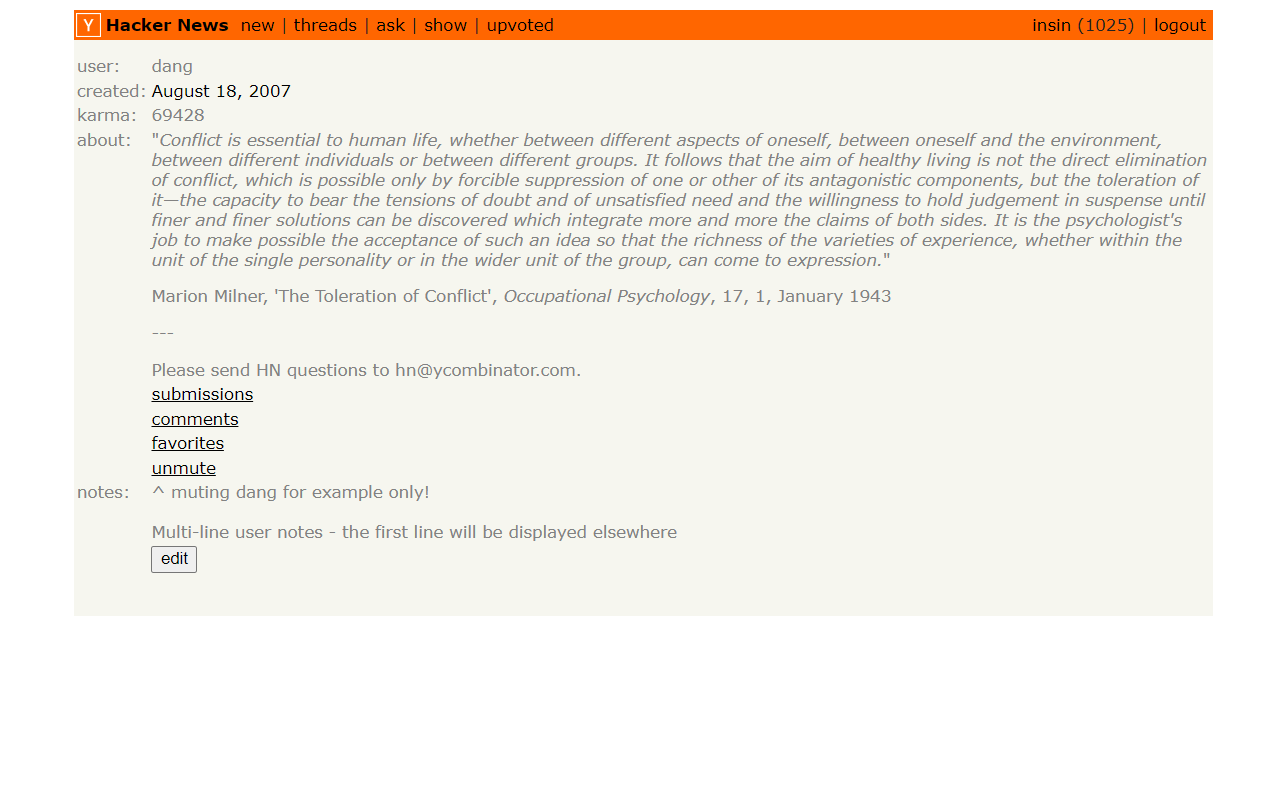
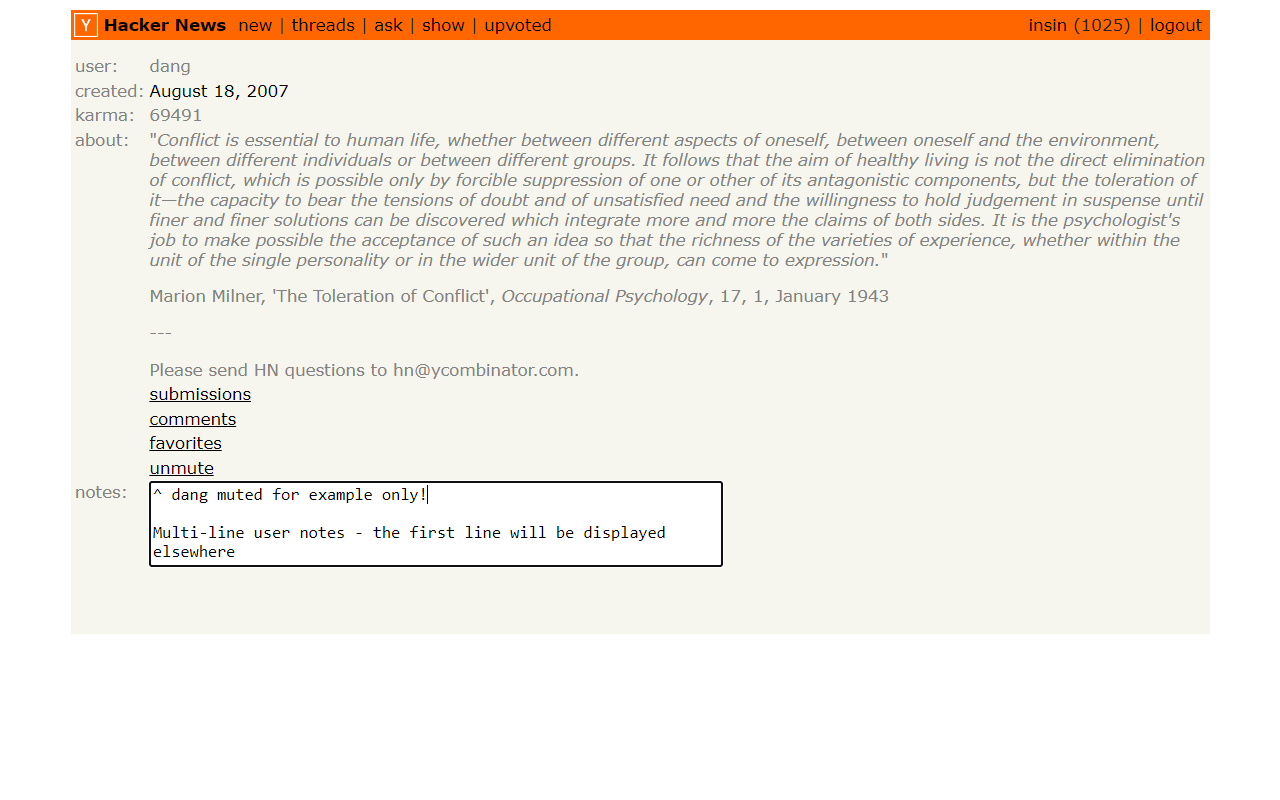
Release v2.1.1
- User notes are now edited via a textarea which saves on blur - removed the Add/Edit/Save buttons
- Changes to user mutes and notes are now synced to profile pages open in any other tabs/windows
- Fixed clobbering user mute and note changes made in other open tabs/windows

diff --git a/content.js b/content.js
@@ -3,7 +3,7 @@
 // @description Highlight new comments, mute users, and other tweaks for Hacker News
 // @namespace   https://github.com/insin/comments-owl-for-hacker-news/
 // @match       https://news.ycombinator.com/*
-// @version     44
+// @version     45
 // ==/UserScript==
 let debug = false
 let isSafari = navigator.userAgent.includes('Safari/') && !/Chrom(e|ium)\//.test(navigator.userAgent)
